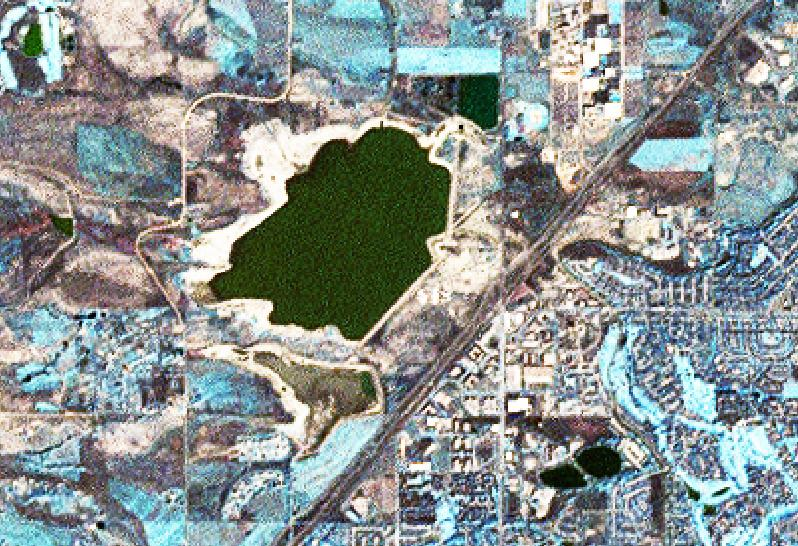
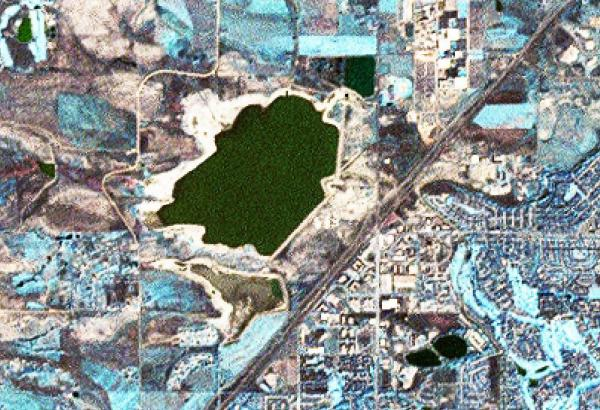
i.pansharpen: fix r.colors call; HTML cosmetics; shrink screenshots to 600px width as per documentation rules

diff --git a/scripts/i.pansharpen/i.pansharpen.html b/scripts/i.pansharpen/i.pansharpen.html
@@ -80,6 +80,8 @@ the 3 pan sharpening algorithms differ in terms of spectral response.
 
 <h2>EXAMPLES</h2>
 
+<h3>Pan sharpening comparison example</h3>
+
 Pan sharpening of a Landsat image from Boulder, Colorado, USA:
 
 <div class="code"><pre>
@@ -93,12 +95,14 @@ i.pansharpen red=p034r032_7dt20010924_z13_30 green=p034r032_7dt20010924_z13_20
     blue=p034r032_7dt20010924_z13_10 pan=p034r032_7dp20010924_z13_80 
     output=ihs321 method=ihs
 
+# ... likewise with method=brovey and method=pca
+
 # display at 15m
 g.region raster=ihs321_blue -p
 d.rgb b=ihs321_blue g=ihs321_green r=ihs321_red
 </pre></div>
 
-
+<p>
 <b><em>Results:</em></b>
 
 <p><center>
@@ -139,8 +143,9 @@ d.rgb b=ihs321_blue g=ihs321_green r=ihs321_red
 </center>
 <br>
 
+<h3>Pan sharpening of LANDSAT ETM+ (Landsat 7)</h3>
 
-Example: LANDSAT ETM+ (Landsat 7), North Carolina sample dataset:
+LANDSAT ETM+ (Landsat 7), North Carolina sample dataset:
 
 <div class="code"><pre>
 # original at 28m

diff --git a/scripts/i.pansharpen/i.pansharpen.py b/scripts/i.pansharpen/i.pansharpen.py
@@ -316,7 +316,7 @@ def main():
     # equalized grey scales give best contrast
     for ch in ['red', 'green', 'blue']:
         grass.run_command('r.colors', quiet=True, map="%s_%s" % (out, ch),
-                          flags="e", col='grey')
+                          flags="e", color='grey')
 
     # Landsat too blue-ish because panchromatic band less sensitive to blue
     # light, so output blue channed can be modified
